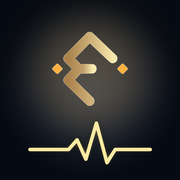
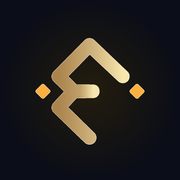
ไอคอนแอป = โลโก้ F ทอง Face Advance (ชุดเดียวกับรายงานส่วนตัว · ไม่มีเส้นชีพจร)

diff --git a/index.html b/index.html
@@ -7,7 +7,7 @@
 <meta property="og:description" content="ดูจำนวนคงเหลือแบบ real-time และขอใช้สิทธิ์สินค้า · ปัดดูสินค้าอื่น">
 <meta property="og:image" content="https://faceadvance.github.io/stock-live/assets/og.jpg">
 <meta property="og:type" content="website">
-<link rel="icon" type="image/png" href="assets/icon.png?v=2"><link rel="apple-touch-icon" href="assets/apple-touch-icon.png?v=2"><link rel="manifest" href="manifest.webmanifest?v=2">
+<link rel="icon" type="image/png" href="assets/icon.png?v=3"><link rel="apple-touch-icon" href="assets/apple-touch-icon.png?v=3"><link rel="manifest" href="manifest.webmanifest?v=3">
 <link href="https://fonts.googleapis.com/css2?family=Noto+Sans+Thai:wght@300;400;500;600;700;800&display=swap" rel="stylesheet">
 <style>
 *{box-sizing:border-box;margin:0;padding:0;-webkit-tap-highlight-color:transparent}
